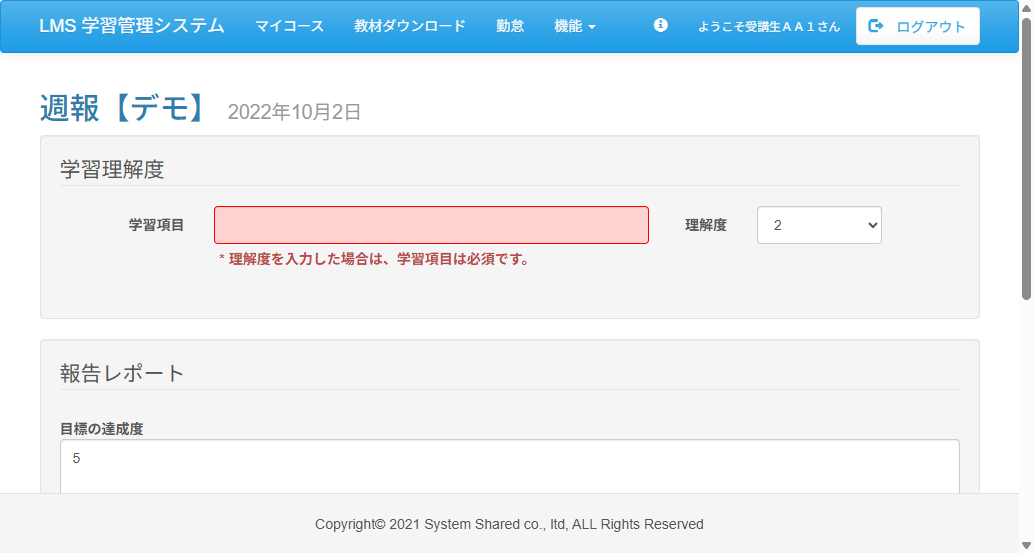
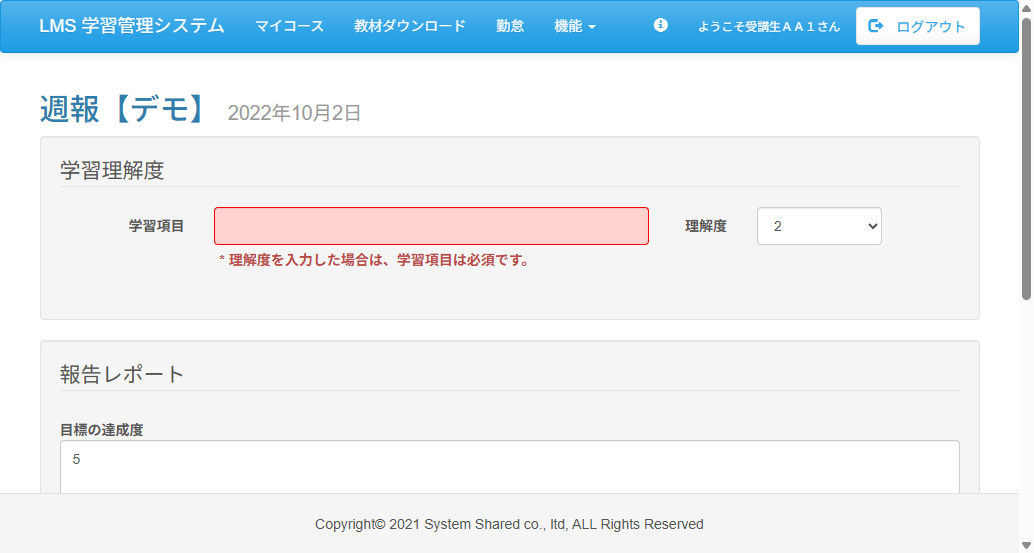
fix:test ct.f03_report.Case09.java テストコード修正
メソッドを分割、それに伴いエビデンスも修正

diff --git a/test_code_creation_kinugawa/src/test/java/jp/co/sss/lms/ct/f03_report/Case09.java b/test_code_creation_kinugawa/src/test/java/jp/co/sss/lms/ct/f03_report/Case09.java
@@ -250,16 +250,11 @@ public class Case09 {
 
 	@Test
 	@Order(9)
-	@DisplayName("テスト09 不適切な内容で修正して「提出する」ボタンを押下しエラー表示：目標の達成度・所感が未入力")
+	@DisplayName("テスト09 不適切な内容で修正して「提出する」ボタンを押下しエラー表示：目標の達成度が未入力")
 	void test09() {
 		//「目標の達成度」の内容修正(異常値)
 		WebElement inputAchievementLevel = webDriver.findElement(By.name("contentArray[0]"));
 		inputAchievementLevel.clear();
-		//画面下部にスクロール
-		scrollTo("300");
-		//「所感」の内容修正(異常値)
-		WebElement inputImpression = webDriver.findElement(By.name("contentArray[1]"));
-		inputImpression.clear();
 		//エビデンス取得
 		getEvidence(new Object() {
 		}, "01");
@@ -271,7 +266,7 @@ public class Case09 {
 				.findElement(By.xpath("//*[@id=\"main\"]/form/div[3]/fieldset/div/div/button"));
 		submitButton.click();
 		//画面下部にスクロール
-		scrollTo("400");
+		scrollTo("230");
 		//エビデンス取得
 		getEvidence(new Object() {
 		}, "02");
@@ -279,20 +274,46 @@ public class Case09 {
 		WebElement inputAchievementLevelError = webDriver
 				.findElement(By.xpath("//*[@id=\"main\"]/form/div[2]/fieldset/div[1]/div/p/span"));
 		assertThat(inputAchievementLevelError.getText(), is(containsString("目標の達成度は半角数字で入力してください。")));
-		//所感エラーメッセージチェック
-		WebElement inputImpressionError = webDriver
-				.findElement(By.xpath("//*[@id=\"main\"]/form/div[2]/fieldset/div[2]/div/p/span"));
-		assertThat(inputImpressionError.getText(), is(containsString("所感は必須です。")));
 	}
 
 	@Test
 	@Order(10)
-	@DisplayName("テスト10 不適切な内容で修正して「提出する」ボタンを押下しエラー表示：所感・一週間の振り返りが2000文字超")
+	@DisplayName("テスト10 不適切な内容で修正して「提出する」ボタンを押下しエラー表示：所感が未入力")
 	void test10() {
 		//「目標の達成度」の内容修正(正常値)
 		WebElement inputAchievementLevel = webDriver.findElement(By.name("contentArray[0]"));
 		inputAchievementLevel.clear();
 		inputAchievementLevel.sendKeys("5");
+		//画面下部にスクロール
+		scrollBy("580");
+		//「所感」の内容修正(異常値)
+		WebElement inputImpression = webDriver.findElement(By.name("contentArray[1]"));
+		inputImpression.clear();
+		//エビデンス取得
+		getEvidence(new Object() {
+		}, "01");
+
+		//「提出する」ボタン押下
+		WebElement submitButton = webDriver
+				.findElement(By.xpath("//*[@id=\"main\"]/form/div[3]/fieldset/div/div/button"));
+		submitButton.click();
+		//画面下部にスクロール
+		scrollTo("580");
+		//待ち処理
+		visibilityTimeout(By.xpath("//*[@id=\"main\"]/form/div[2]/fieldset/div[2]/div/p/span"), 100);
+		//所感エラーメッセージチェック
+		WebElement inputImpressionError = webDriver
+				.findElement(By.xpath("//*[@id=\"main\"]/form/div[2]/fieldset/div[2]/div/p/span"));
+		assertThat(inputImpressionError.getText(), is(containsString("所感は必須です。")));
+		//エビデンス取得
+		getEvidence(new Object() {
+		}, "02");
+	}
+
+	@Test
+	@Order(11)
+	@DisplayName("テスト11 不適切な内容で修正して「提出する」ボタンを押下しエラー表示：所感が2000文字超")
+	void test11() {
 		//2001桁の文字列
 		StringBuilder str2001 = new StringBuilder();
 		for (int i = 0; i < 2001; i++) {
@@ -304,15 +325,12 @@ public class Case09 {
 		WebElement inputImpression = webDriver.findElement(By.name("contentArray[1]"));
 		inputImpression.clear();
 		inputImpression.sendKeys(str2001);
-		//「一週間の振り返り」の内容修正(異常値)
-		WebElement inputWeek = webDriver.findElement(By.xpath("//*[@id=\"content_2\"]"));
-		inputWeek.clear();
-		inputWeek.sendKeys(str2001);
 		//画面下部にスクロール
 		scrollBy("580");
 		//エビデンス取得
 		getEvidence(new Object() {
 		}, "01");
+
 		//「提出する」ボタン押下
 		WebElement submitButton = webDriver
 				.findElement(By.xpath("//*[@id=\"main\"]/form/div[3]/fieldset/div/div/button"));
@@ -326,10 +344,47 @@ public class Case09 {
 		WebElement inputImpressionError = webDriver
 				.findElement(By.xpath("//*[@id=\"main\"]/form/div[2]/fieldset/div[2]/div/p/span"));
 		assertThat(inputImpressionError.getText(), is(containsString("所感の長さが最大値(2000)を超えています。")));
+	}
+
+	@Test
+	@Order(12)
+	@DisplayName("テスト12 不適切な内容で修正して「提出する」ボタンを押下しエラー表示：一週間の振り返りが2000文字超")
+	void test12() {
+		//2001桁の文字列
+		StringBuilder str2001 = new StringBuilder();
+		for (int i = 0; i < 2001; i++) {
+			str2001.append("2");
+		}
+		//待ち処理(1500秒)
+		pageLoadTimeout(1500);
+		//「所感」の内容修正(正常値)
+		WebElement inputImpression = webDriver.findElement(By.name("contentArray[1]"));
+		inputImpression.clear();
+		inputImpression.sendKeys("週報のサンプルです。");
+		//「一週間の振り返り」の内容修正(異常値)
+		WebElement inputWeek = webDriver.findElement(By.xpath("//*[@id=\"content_2\"]"));
+		inputWeek.clear();
+		inputWeek.sendKeys(str2001);
+		//画面下部にスクロール
+		scrollBy("580");
+		//エビデンス取得
+		getEvidence(new Object() {
+		}, "01");
+
+		//「提出する」ボタン押下
+		WebElement submitButton = webDriver
+				.findElement(By.xpath("//*[@id=\"main\"]/form/div[3]/fieldset/div/div/button"));
+		submitButton.click();
+		//画面下部にスクロール
+		scrollTo("580");
+		//待ち処理
+		visibilityTimeout(By.xpath("//*[@id=\"main\"]/form/div[2]/fieldset/div[3]/div/p/span"), 100);
 		//一週間の振り返りエラーメッセージチェック
 		WebElement inputWeekError = webDriver
 				.findElement(By.xpath("//*[@id=\"main\"]/form/div[2]/fieldset/div[3]/div/p/span"));
 		assertThat(inputWeekError.getText(), is(containsString("一週間の振り返りの長さが最大値(2000)を超えています。")));
+		//エビデンス取得
+		getEvidence(new Object() {
+		}, "02");
 	}
-
 }
